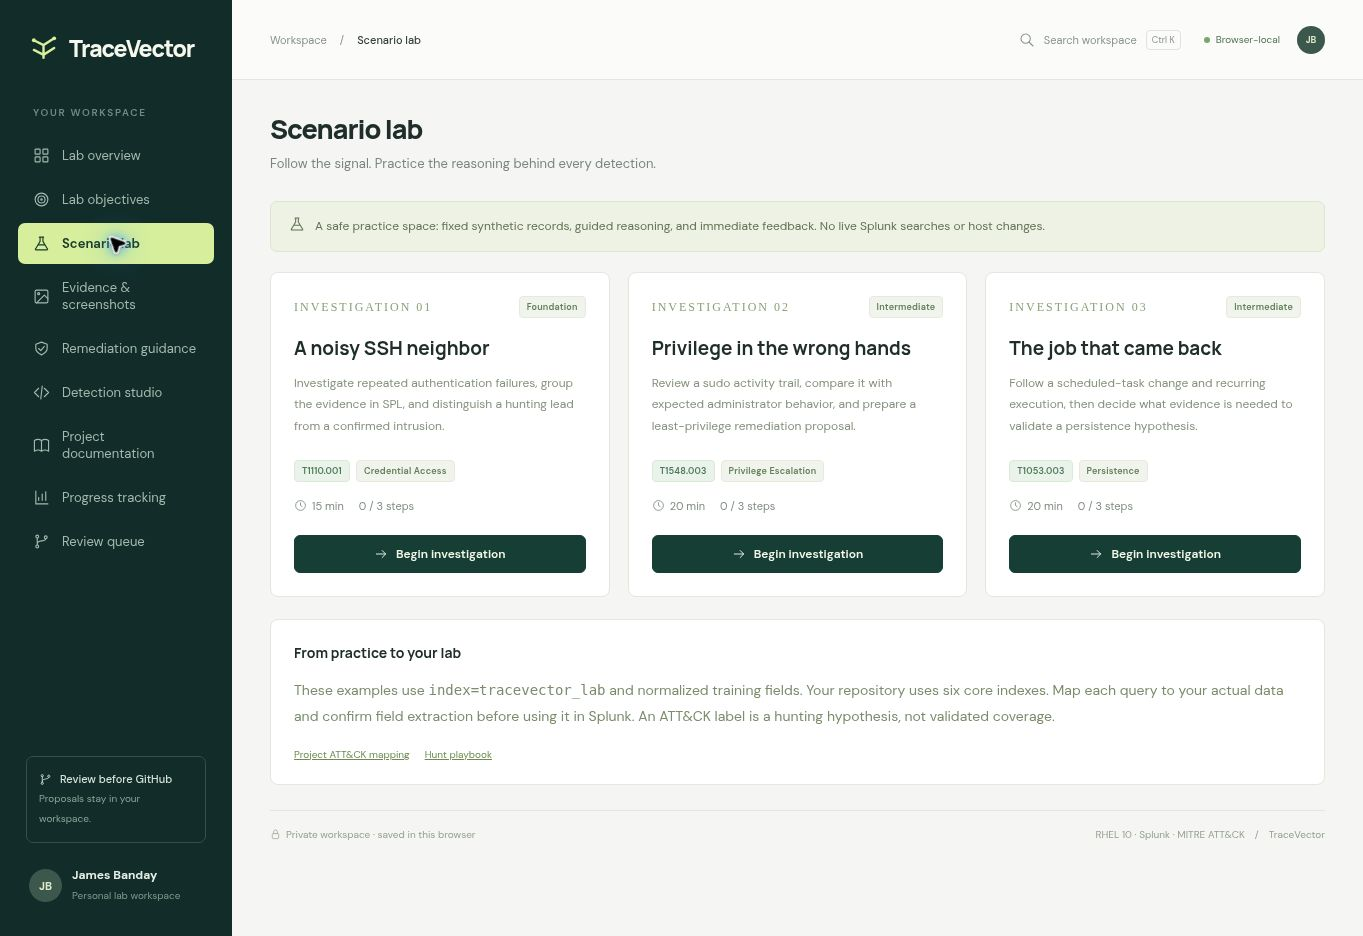
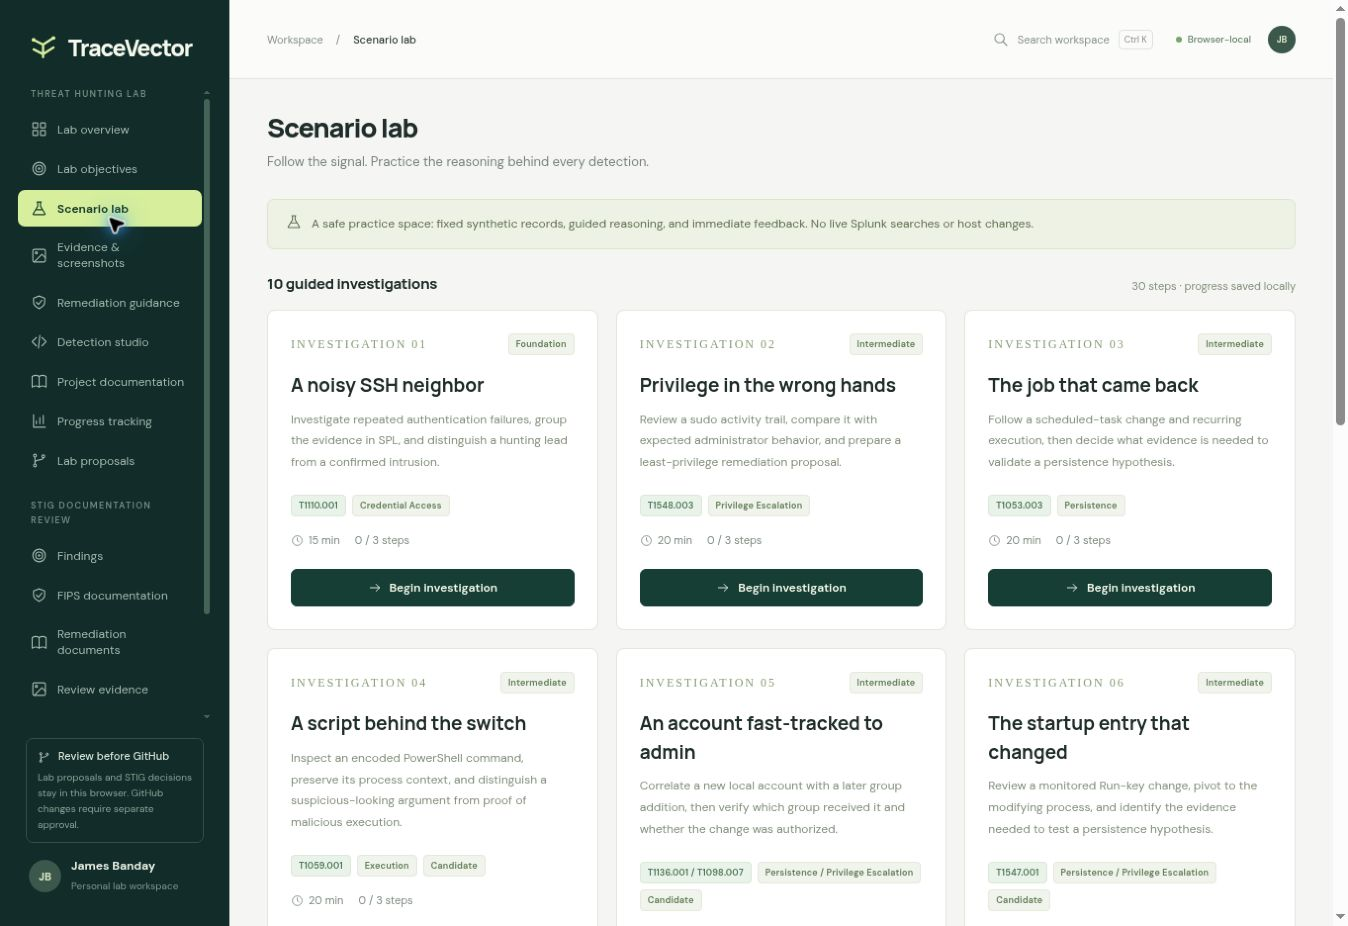
Refresh all nine TraceVector screenshots for Site version 4
Replace the nine TraceVector interface captures with the current published layout, larger Overview text, ten investigations, and combined lab/STIG review navigation. Preserve image filenames and refresh gallery captions and capture provenance.

Captured from the published source in a local preview with an empty personal workspace. The repository application source remains the historical version 1 snapshot.

Validation: project source validation and publication preflight passed; 84 unit tests passed, with one Suricata replay test skipped because the engine is unavailable; 53 local documentation links resolved; all nine JPEGs were decoded and visually inspected.

diff --git a/docs/network-defense/INTERACTIVE_LAB.md b/docs/network-defense/INTERACTIVE_LAB.md
@@ -2,7 +2,7 @@
 
 [Open the private TraceVector Site](https://tracevector-lab.jamesbanday.chatgpt.site) · [Start a guided hunt](https://tracevector-lab.jamesbanday.chatgpt.site/#scenarios) · [Browse current source](../../website/tracevector-lab/)
 
-TraceVector brings guided Splunk hunts, MITRE ATT&CK context, evidence, documentation, STIG guidance, detection drafts, and progress into one personal workspace. This guide describes **Site version 1, published November 11, 2026**, with matching source and screenshots.
+TraceVector brings guided Splunk hunts, MITRE ATT&CK context, evidence, documentation, STIG guidance, detection drafts, and progress into one personal workspace. The workflow reference and repository application source below describe **Site version 1, published November 11, 2026**. The [screenshot gallery](#screenshot-gallery) was refreshed from **Site version 4** and includes the newer Overview typography and combined lab/STIG navigation.
 
 ## Access and scope
 
@@ -62,19 +62,19 @@ The STIG section links the repository's RHEL 10 guidance and benchmark metadata.
 
 ## Screenshot gallery
 
-These captures show the current source in a local preview with an empty personal workspace. They document the interface; they do not establish live lab operation, detection coverage, or STIG compliance.
+These nine desktop viewport captures were refreshed on **November 11, 2026**, from a local preview of **published Site version 4**, source commit `c22ec3678aba804226942517a51297860f74ff85`. [Open the current private TraceVector Site](https://tracevector.jamesbanday.chatgpt.site). They show an empty personal workspace, larger Overview typography, ten guided investigations, and combined lab/STIG review navigation. Longer pages continue below the captured area. The version 1 application source retained in this repository is an earlier snapshot and does not reproduce every change shown here. These captures document the interface; they do not establish live lab operation, detection coverage, or STIG compliance.
 
 ### Figure 1 — Lab overview
 
 ![TraceVector lab overview with topology and workspace totals](../../screenshots/tracevector-lab/01-lab-overview.jpg)
 
-Figure 1: The overview brings lab topology, learning objectives, evidence, guided hunts, and STIG tracking into one dashboard.
+Figure 1: The overview uses larger text to present lab topology, workspace totals, and the STIG documentation review entry point.
 
 ### Figure 2 — Scenario lab
 
-![TraceVector guided SSH, sudo, and cron scenarios](../../screenshots/tracevector-lab/02-scenario-lab.jpg)
+![TraceVector scenario lab with ten guided investigations](../../screenshots/tracevector-lab/02-scenario-lab.jpg)
 
-Figure 2: The scenario lab provides three guided hunts using synthetic records, Splunk examples, and MITRE ATT&CK hypotheses.
+Figure 2: The scenario lab now offers ten guided investigations using synthetic records, Splunk examples, and MITRE ATT&CK hypotheses.
 
 <details>
 <summary>View Figures 3–9: evidence, remediation, detection, documentation, progress, review, and objectives</summary>
@@ -89,7 +89,7 @@ Figure 3: The evidence view organizes repository screenshots and local records w
 
 ![TraceVector STIG guidance and pending evidence requirements](../../screenshots/tracevector-lab/04-remediation-guidance.jpg)
 
-Figure 4: The remediation view links assessment guidance, proposed changes, and twelve RHEL STIG evidence requirements.
+Figure 4: The remediation view links the FIPS documentation review, assessment guidance, and twelve pending RHEL STIG evidence requirements.
 
 ### Figure 5 — Detection studio
 
@@ -105,15 +105,15 @@ Figure 6: The documentation view groups project guides and tracks proposed updat
 
 ### Figure 7 — Progress tracking
 
-![TraceVector progress tracking, journal, and backup controls](../../screenshots/tracevector-lab/07-progress-tracking.jpg)
+![TraceVector progress totals, practice milestones, and activity log](../../screenshots/tracevector-lab/07-progress-tracking.jpg)
 
-Figure 7: The progress view combines practice milestones, a lab journal, activity history, and backup export/import.
+Figure 7: The progress view tracks ten practice hunts and workspace activity, with journal and backup tools further down the page.
 
-### Figure 8 — Review queue
+### Figure 8 — Lab proposals
 
-![TraceVector review queue before any proposals are added](../../screenshots/tracevector-lab/08-review-queue.jpg)
+![TraceVector lab proposals with the STIG change review entry point](../../screenshots/tracevector-lab/08-review-queue.jpg)
 
-Figure 8: The review queue stores proposed changes and review decisions before separate application to GitHub.
+Figure 8: Lab proposals now includes a separate STIG change review entry point above the empty proposal list.
 
 ### Figure 9 — Lab objectives
 

diff --git a/screenshots/README.md b/screenshots/README.md
@@ -29,7 +29,7 @@ These screenshots were supplied in the original ZIP. They may show configuration
 
 ## Current TraceVector screenshots
 
-The [current TraceVector gallery](../docs/network-defense/INTERACTIVE_LAB.md#screenshot-gallery) contains nine browser captures from a local preview of published Site version 1. They show the application with no personal progress, notes, drafts, proposals, or attachments. Existing public repository thumbnails remain visible in the evidence view. These captures document the interface, not live lab results or STIG compliance.
+The [current TraceVector gallery](../docs/network-defense/INTERACTIVE_LAB.md#screenshot-gallery) contains nine browser captures refreshed on November 11, 2026, from a local preview of published **Site version 4**, source commit `c22ec3678aba804226942517a51297860f74ff85`. They show the larger Overview typography, ten guided investigations, and combined lab/STIG review navigation. These are desktop viewport captures; longer views continue below the captured area. The [current private Site](https://tracevector.jamesbanday.chatgpt.site) is separate from the version 1 source snapshot retained in `website/tracevector-lab/`. They show the application with no personal progress, notes, drafts, proposals, or attachments. Existing public repository thumbnails remain visible in the evidence view. These captures document the interface, not live lab results or STIG compliance.
 
 | Figure | View |
 | --- | --- |
@@ -40,7 +40,7 @@ The [current TraceVector gallery](../docs/network-defense/INTERACTIVE_LAB.md#scr
 | 5 | [Detection studio](tracevector-lab/05-detection-studio.jpg) |
 | 6 | [Project documentation](tracevector-lab/06-project-documentation.jpg) |
 | 7 | [Progress tracking](tracevector-lab/07-progress-tracking.jpg) |
-| 8 | [Review queue](tracevector-lab/08-review-queue.jpg) |
+| 8 | [Lab proposals and STIG review link](tracevector-lab/08-review-queue.jpg) |
 | 9 | [Lab objectives](tracevector-lab/09-lab-objectives.jpg) |
 
 ## Earlier network-defense workbench screenshots
